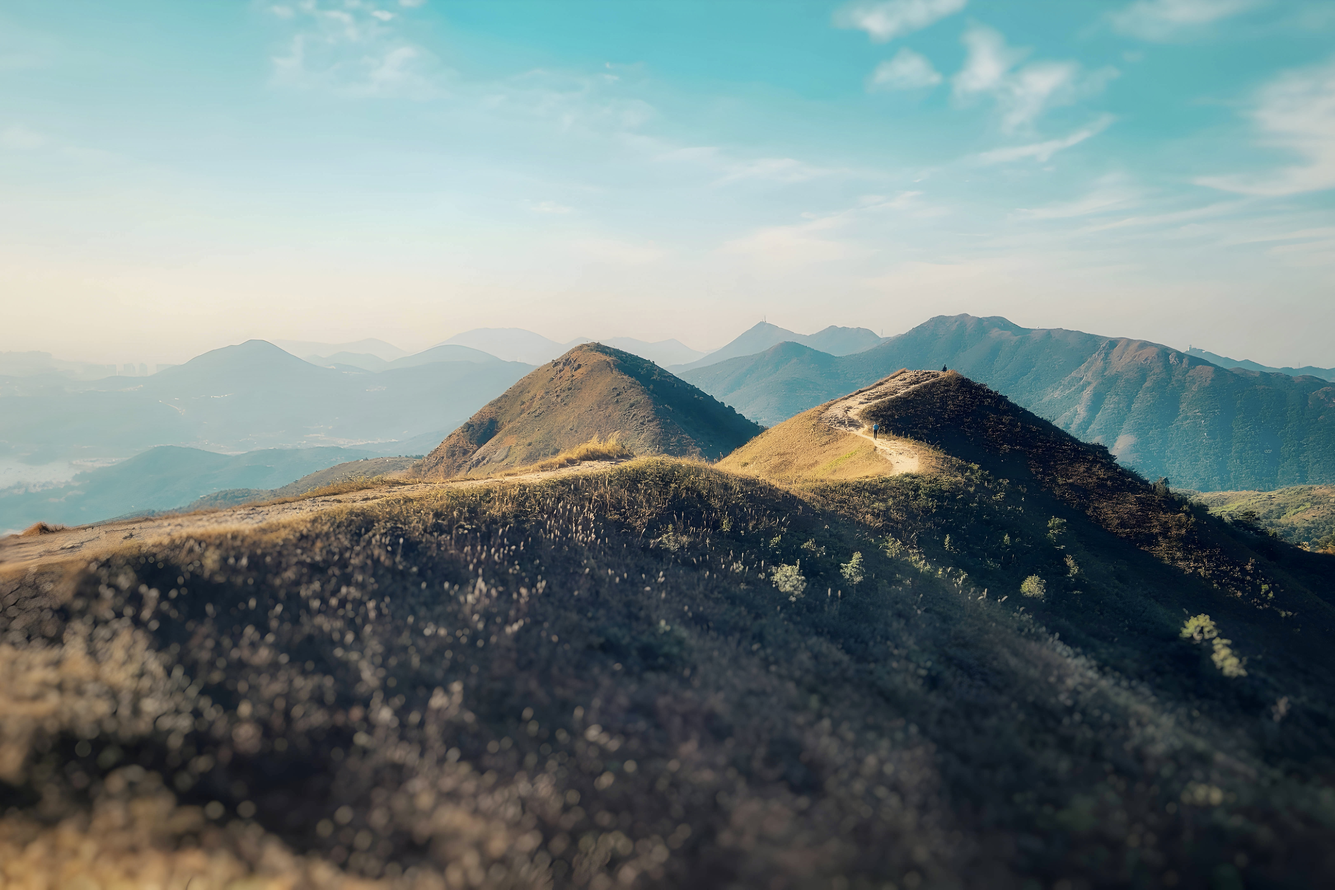
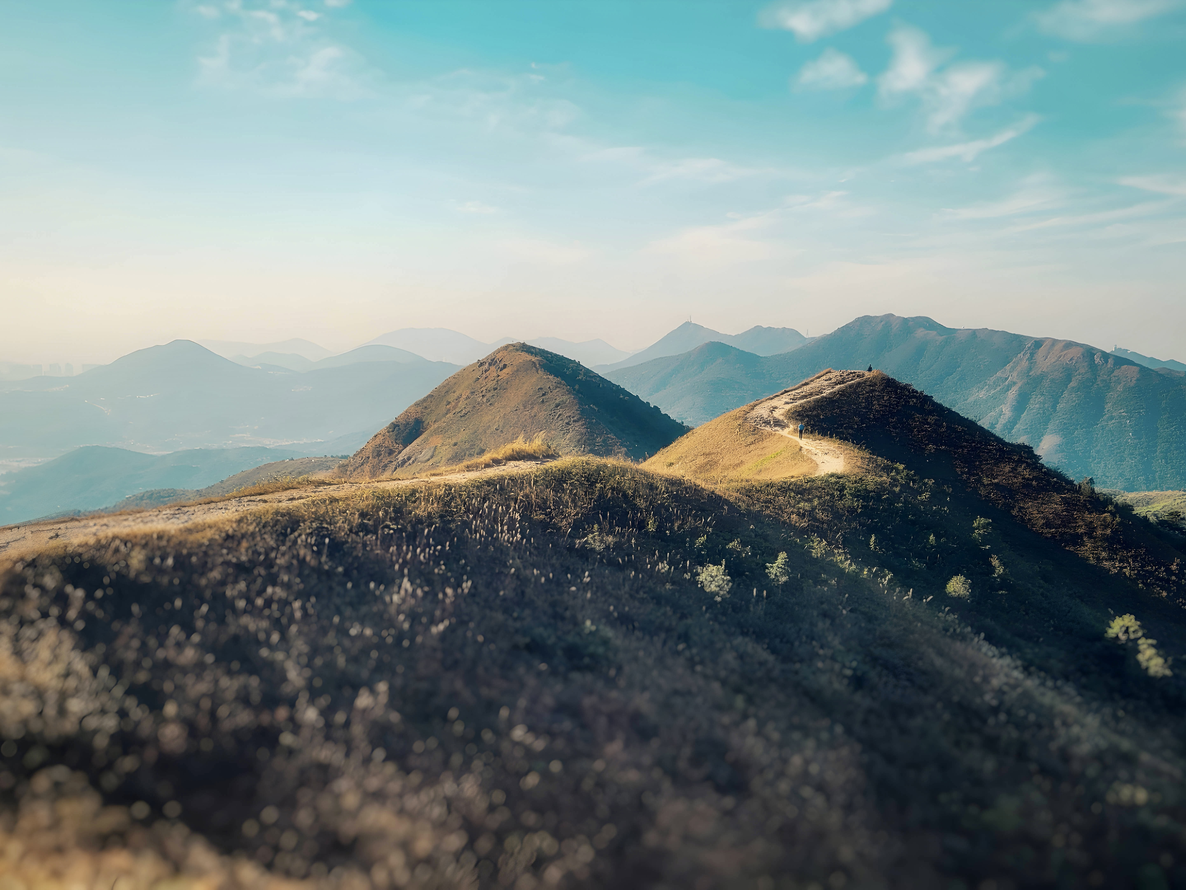
commit

diff --git a/_photography/2024-01-05-landscape-photography.md b/_photography/2024-01-05-landscape-photography.md
@@ -3,7 +3,7 @@ layout: project
 title: "Landscape Photography"
 date: 2024-01-02
 order: 5
-image: '/images/landscape-1.jpg'
+image: '/images/landscape.jpg'
 ---
 
 Capturing the beauty and majesty of the natural world.
